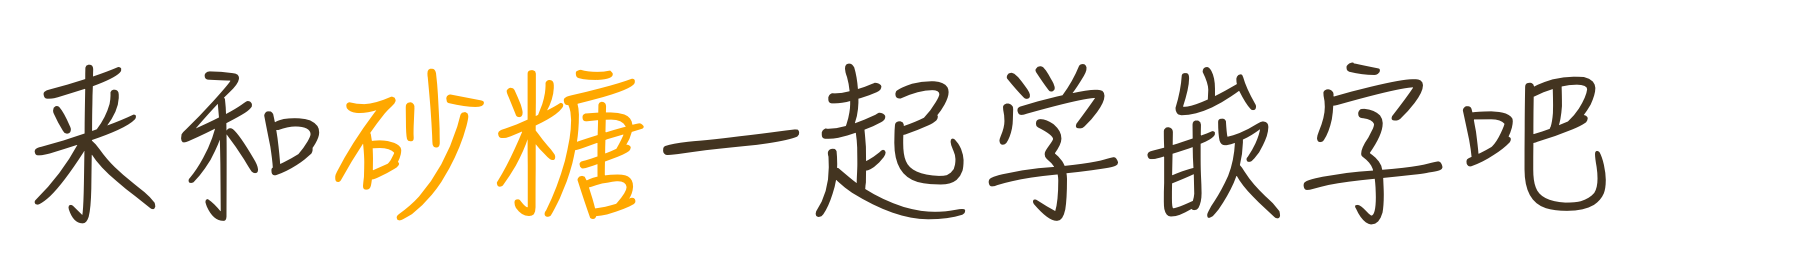
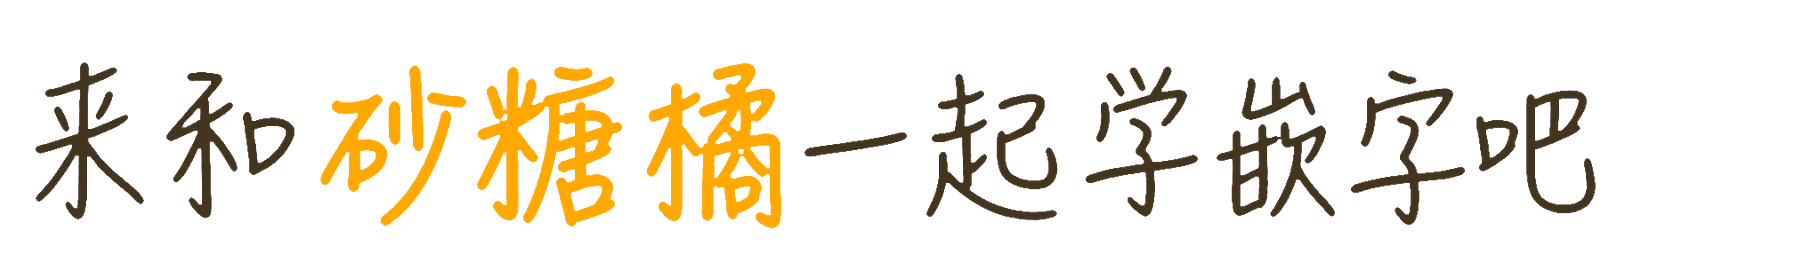
feat: update sugar orange branding and hero artwork

Changed region(s): [[0.0, 0.2462, 0.9022, 0.8923], [0.84, 0.5846, 0.9022, 0.8308]]

diff --git a/web/frontend/src/components/AdminShell.vue b/web/frontend/src/components/AdminShell.vue
@@ -39,10 +39,10 @@ onMounted(() => { void checkSession(); });
   <main class="admin-frame">
     <button class="mobile-menu" type="button" aria-label="打开管理导航" @click="drawerOpen = true">☰ 菜单</button>
     <aside class="sidebar desktop-sidebar">
-      <div class="sidebar-inner"><RouterLink class="admin-brand" to="/">砂糖的秘密小课堂</RouterLink><nav aria-label="管理导航"><RouterLink v-for="item in navItems" :key="item.to" :to="item.to" class="nav-item" :class="{ active: item.exact ? activePath === item.to : activePath.startsWith(item.to) }">{{ item.label }}</RouterLink></nav><div class="sidebar-footer"><span v-if="session" class="logout">{{ session.username }}</span><RouterLink class="logout" to="/">返回答题首页</RouterLink><button type="button" @click="logout">退出登录</button></div></div>
+      <div class="sidebar-inner"><RouterLink class="admin-brand" to="/">砂糖橘的秘密小课堂</RouterLink><nav aria-label="管理导航"><RouterLink v-for="item in navItems" :key="item.to" :to="item.to" class="nav-item" :class="{ active: item.exact ? activePath === item.to : activePath.startsWith(item.to) }">{{ item.label }}</RouterLink></nav><div class="sidebar-footer"><span v-if="session" class="logout">{{ session.username }}</span><RouterLink class="logout" to="/">返回答题首页</RouterLink><button type="button" @click="logout">退出登录</button></div></div>
     </aside>
     <el-drawer v-model="drawerOpen" direction="ltr" size="280px" :with-header="false" class="admin-drawer">
-      <div class="drawer-inner"><RouterLink class="admin-brand" to="/" @click="closeDrawer">砂糖的秘密小课堂</RouterLink><nav aria-label="管理导航"><RouterLink v-for="item in navItems" :key="item.to" :to="item.to" class="nav-item" :class="{ active: item.exact ? activePath === item.to : activePath.startsWith(item.to) }" @click="closeDrawer">{{ item.label }}</RouterLink></nav><div class="sidebar-footer"><RouterLink class="logout" to="/" @click="closeDrawer">返回答题首页</RouterLink><button class="logout" type="button" @click="logout">退出登录</button></div></div>
+      <div class="drawer-inner"><RouterLink class="admin-brand" to="/" @click="closeDrawer">砂糖橘的秘密小课堂</RouterLink><nav aria-label="管理导航"><RouterLink v-for="item in navItems" :key="item.to" :to="item.to" class="nav-item" :class="{ active: item.exact ? activePath === item.to : activePath.startsWith(item.to) }" @click="closeDrawer">{{ item.label }}</RouterLink></nav><div class="sidebar-footer"><RouterLink class="logout" to="/" @click="closeDrawer">返回答题首页</RouterLink><button class="logout" type="button" @click="logout">退出登录</button></div></div>
     </el-drawer>
     <section class="admin-main" :aria-busy="checking"><div v-if="checking" class="admin-loading">正在验证管理员会话…</div><slot v-else-if="session" :session="session"></slot></section>
   </main>

diff --git a/web/frontend/index.html b/web/frontend/index.html
@@ -4,13 +4,13 @@
     <meta charset="UTF-8" />
     <meta name="viewport" content="width=device-width, initial-scale=1.0" />
     <meta name="theme-color" content="#fff9f0" />
-    <meta name="description" content="砂糖的秘密小课堂：观察字形，选择最合适的中文字体。" />
+    <meta name="description" content="砂糖橘的秘密小课堂：观察字形，选择最合适的中文字体。" />
     <link rel="icon" type="image/png" sizes="16x16" href="/mikanquiz-favicon-16.png?v=20260723" />
     <link rel="icon" type="image/png" sizes="32x32" href="/mikanquiz-favicon-32.png?v=20260723" />
     <link rel="icon" type="image/png" sizes="48x48" href="/mikanquiz-favicon-48.png?v=20260723" />
     <link rel="apple-touch-icon" sizes="180x180" href="/mikanquiz-apple-touch-icon-180.png?v=20260723" />
     <link rel="manifest" href="/site.webmanifest?v=20260723" />
-    <title>砂糖的秘密小课堂</title>
+    <title>砂糖橘的秘密小课堂</title>
   </head>
   <body>
     <div id="app"></div>

diff --git a/web/frontend/src/router/index.ts b/web/frontend/src/router/index.ts
@@ -4,7 +4,7 @@ const router = createRouter({
   history: createWebHistory(),
   scrollBehavior: () => ({ top: 0 }),
   routes: [
-    { path: '/', component: () => import('@/pages/HomePage.vue'), meta: { title: '砂糖的秘密小课堂' } },
+    { path: '/', component: () => import('@/pages/HomePage.vue'), meta: { title: '砂糖橘的秘密小课堂' } },
     { path: '/levels', component: () => import('@/pages/LevelsPage.vue'), meta: { title: '选择难度' } },
     { path: '/quiz/:attempt', component: () => import('@/pages/QuizPage.vue'), meta: { title: '字形练习' } },
     { path: '/result/:attempt', component: () => import('@/pages/ResultPage.vue'), meta: { title: '答题结果' } },
@@ -22,6 +22,6 @@ const router = createRouter({
   ],
 });
 
-router.beforeEach((to) => { document.title = (to.meta.title as string) ?? '砂糖的秘密小课堂'; });
+router.beforeEach((to) => { document.title = (to.meta.title as string) ?? '砂糖橘的秘密小课堂'; });
 
 export default router;

diff --git a/web/frontend/src/pages/HomePage.vue b/web/frontend/src/pages/HomePage.vue
@@ -16,8 +16,8 @@ function beginQuiz(): void {
       <section class="hero" aria-labelledby="home-title">
         <div class="hero-copy">
           <div class="hero-sun" aria-hidden="true"></div>
-          <h1 id="home-title" class="sr-only">砂糖的秘密小课堂</h1>
-          <p class="eyebrow hero-eyebrow">砂糖的秘密小课堂</p>
+          <h1 id="home-title" class="sr-only">砂糖橘的秘密小课堂</h1>
+          <p class="eyebrow hero-eyebrow">砂糖橘的秘密小课堂</p>
           <img class="hero-title" :src="heroTitle" alt="汉字盆" />
           <p class="subtitle">  观察图片，选择最合适的中文字体~</p>
         </div>

diff --git a/web/frontend/src/components/BrandHeader.vue b/web/frontend/src/components/BrandHeader.vue
@@ -40,8 +40,8 @@ watch(editing, async (open) => {
 
 <template>
   <header class="brand-header">
-    <RouterLink v-if="showBrand" class="brand" to="/" aria-label="返回砂糖的秘密小课堂首页">
-      <span>砂糖的秘密小课堂</span>
+    <RouterLink v-if="showBrand" class="brand" to="/" aria-label="返回砂糖橘的秘密小课堂首页">
+      <span>砂糖橘的秘密小课堂</span>
     </RouterLink>
     <div class="header-actions">
       <button class="name-button" type="button" @click="openNameEditor">

diff --git a/DESIGN.md b/DESIGN.md
@@ -125,7 +125,7 @@
 │ 品牌                                                     昵称 │
 │                                                              │
 │  [暖色光斑]            ┌──────────────────────────────────┐  │
-│  砂糖的秘密小课堂       │ 开始识字挑战                  → │  │
+│  砂糖橘的秘密小课堂      │ 开始识字挑战                  → │  │
 │  [现有手写标题图片]      │ 选择适合你的题目难度              │  │
 │  观察图片……             ├──────────────────────────────────┤  │
 │                         │ 嵌字笔记                    → │  │
